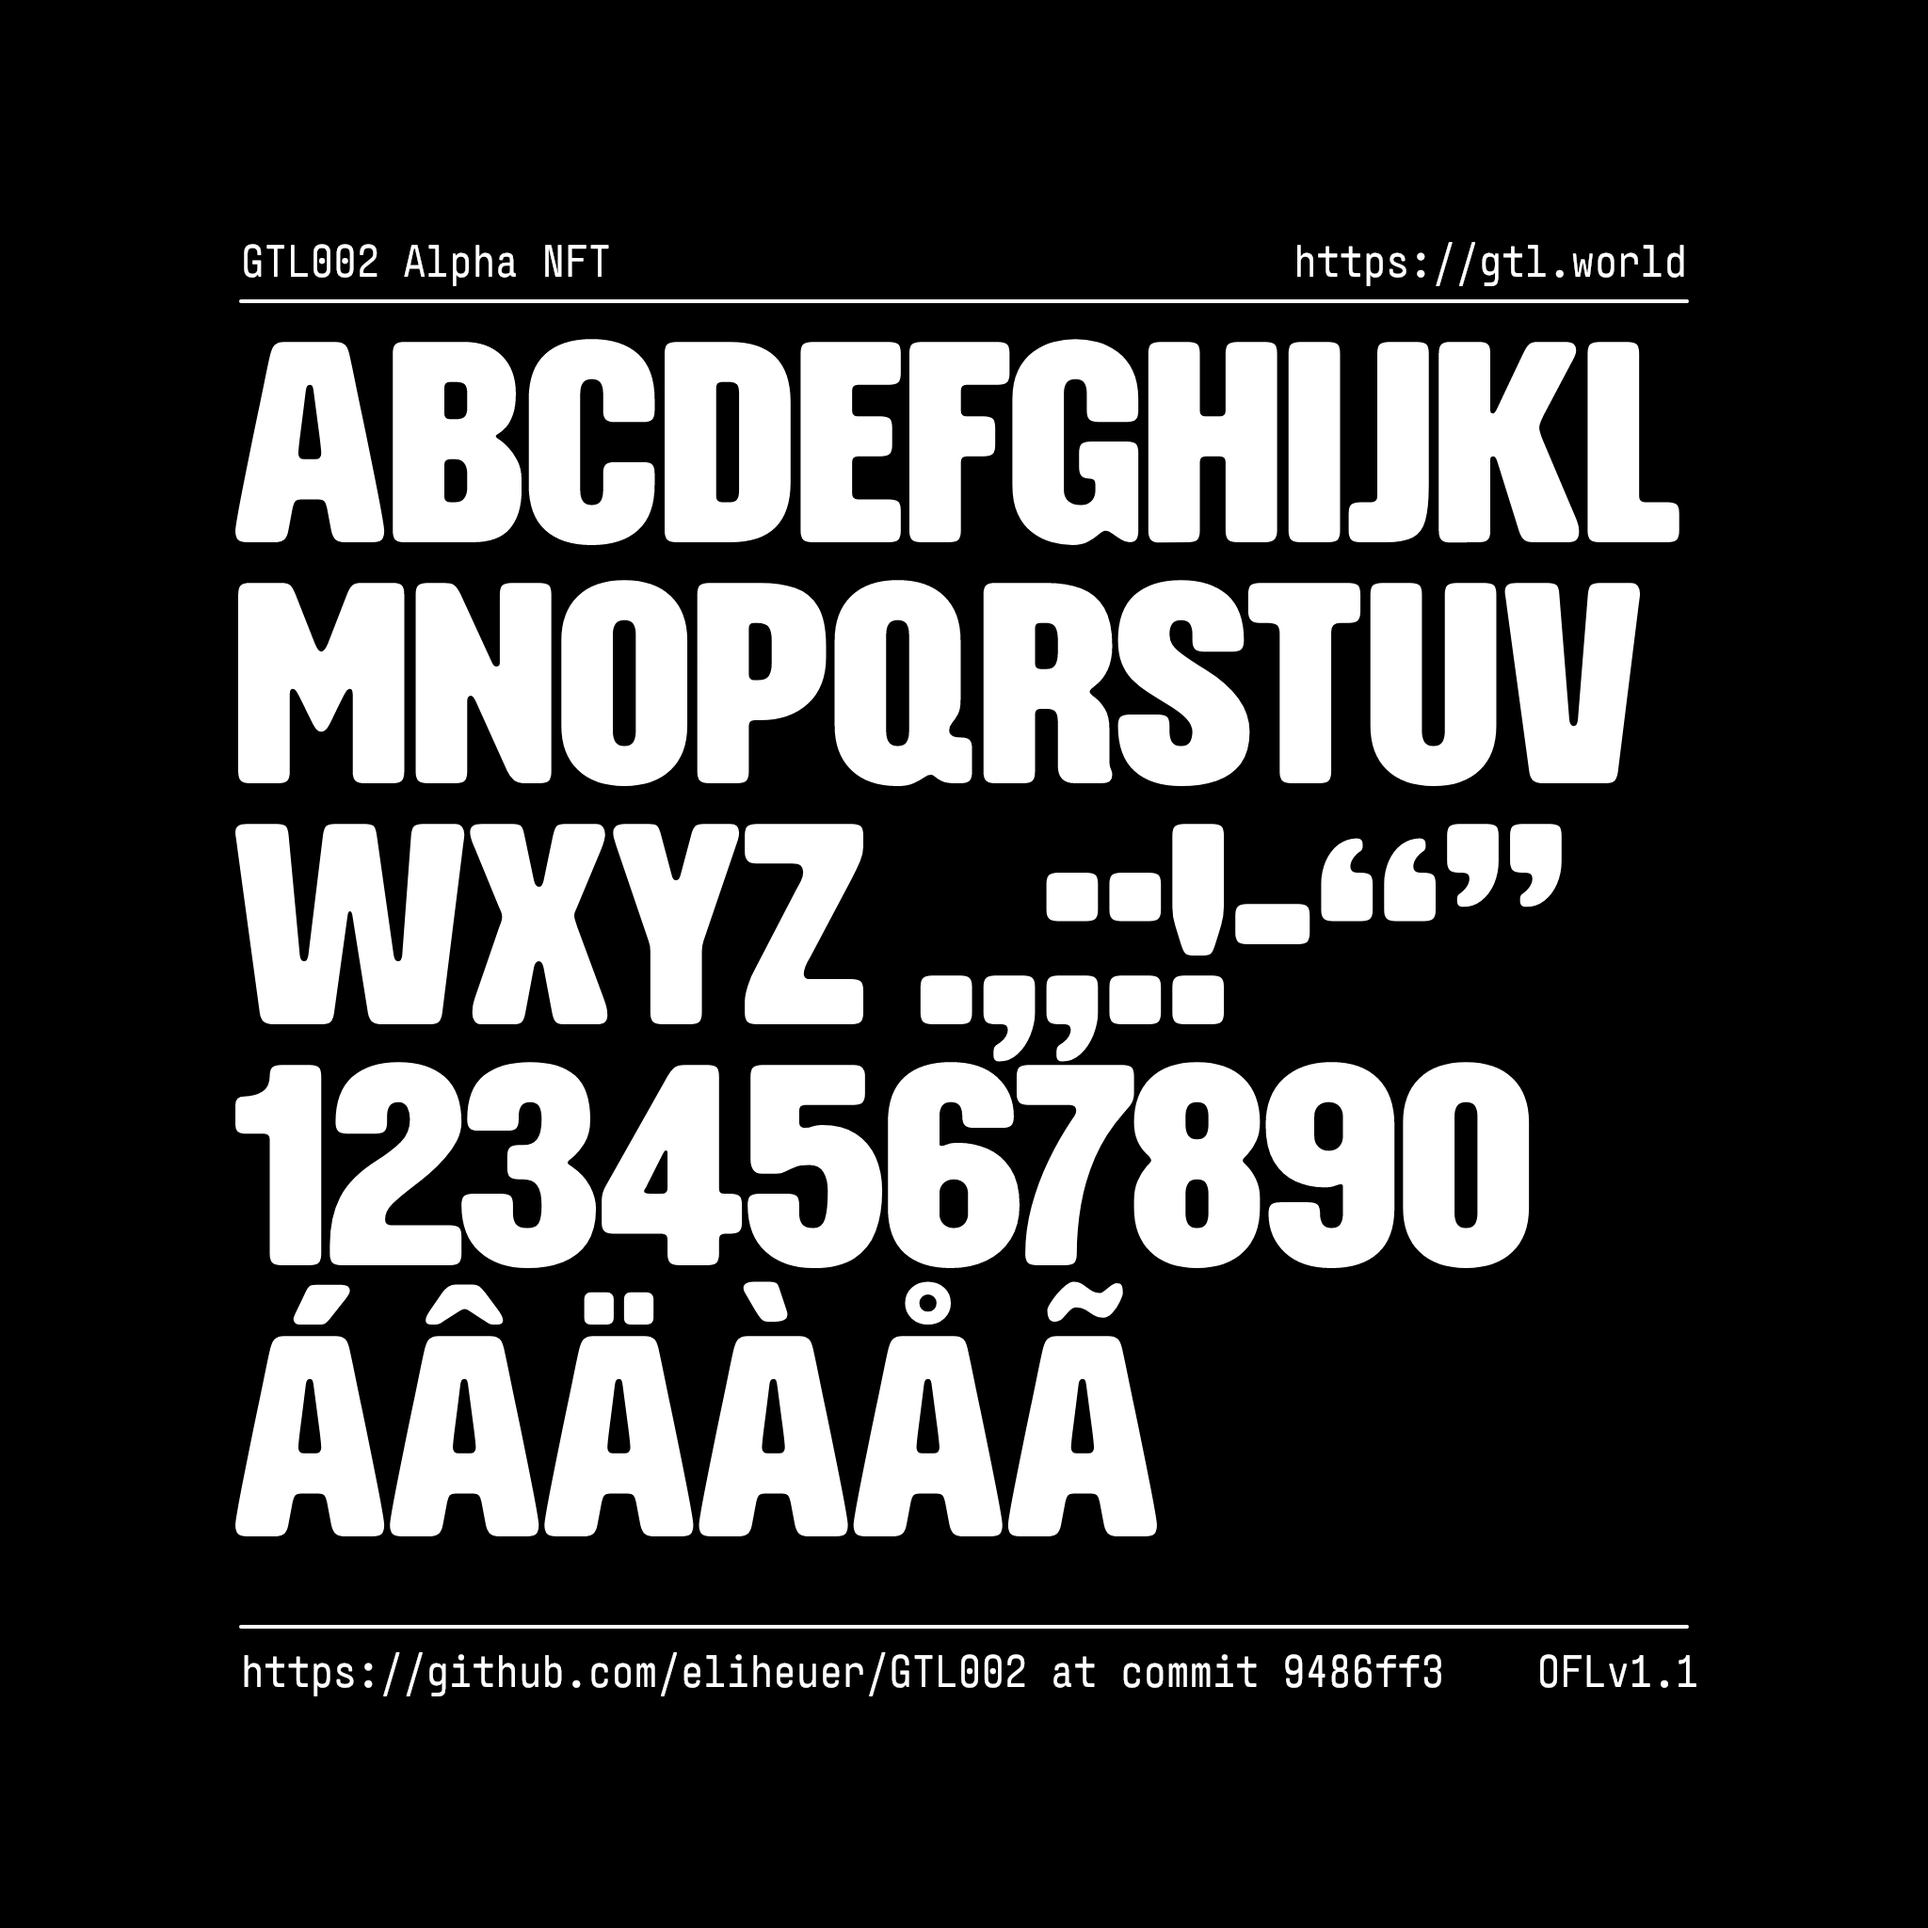
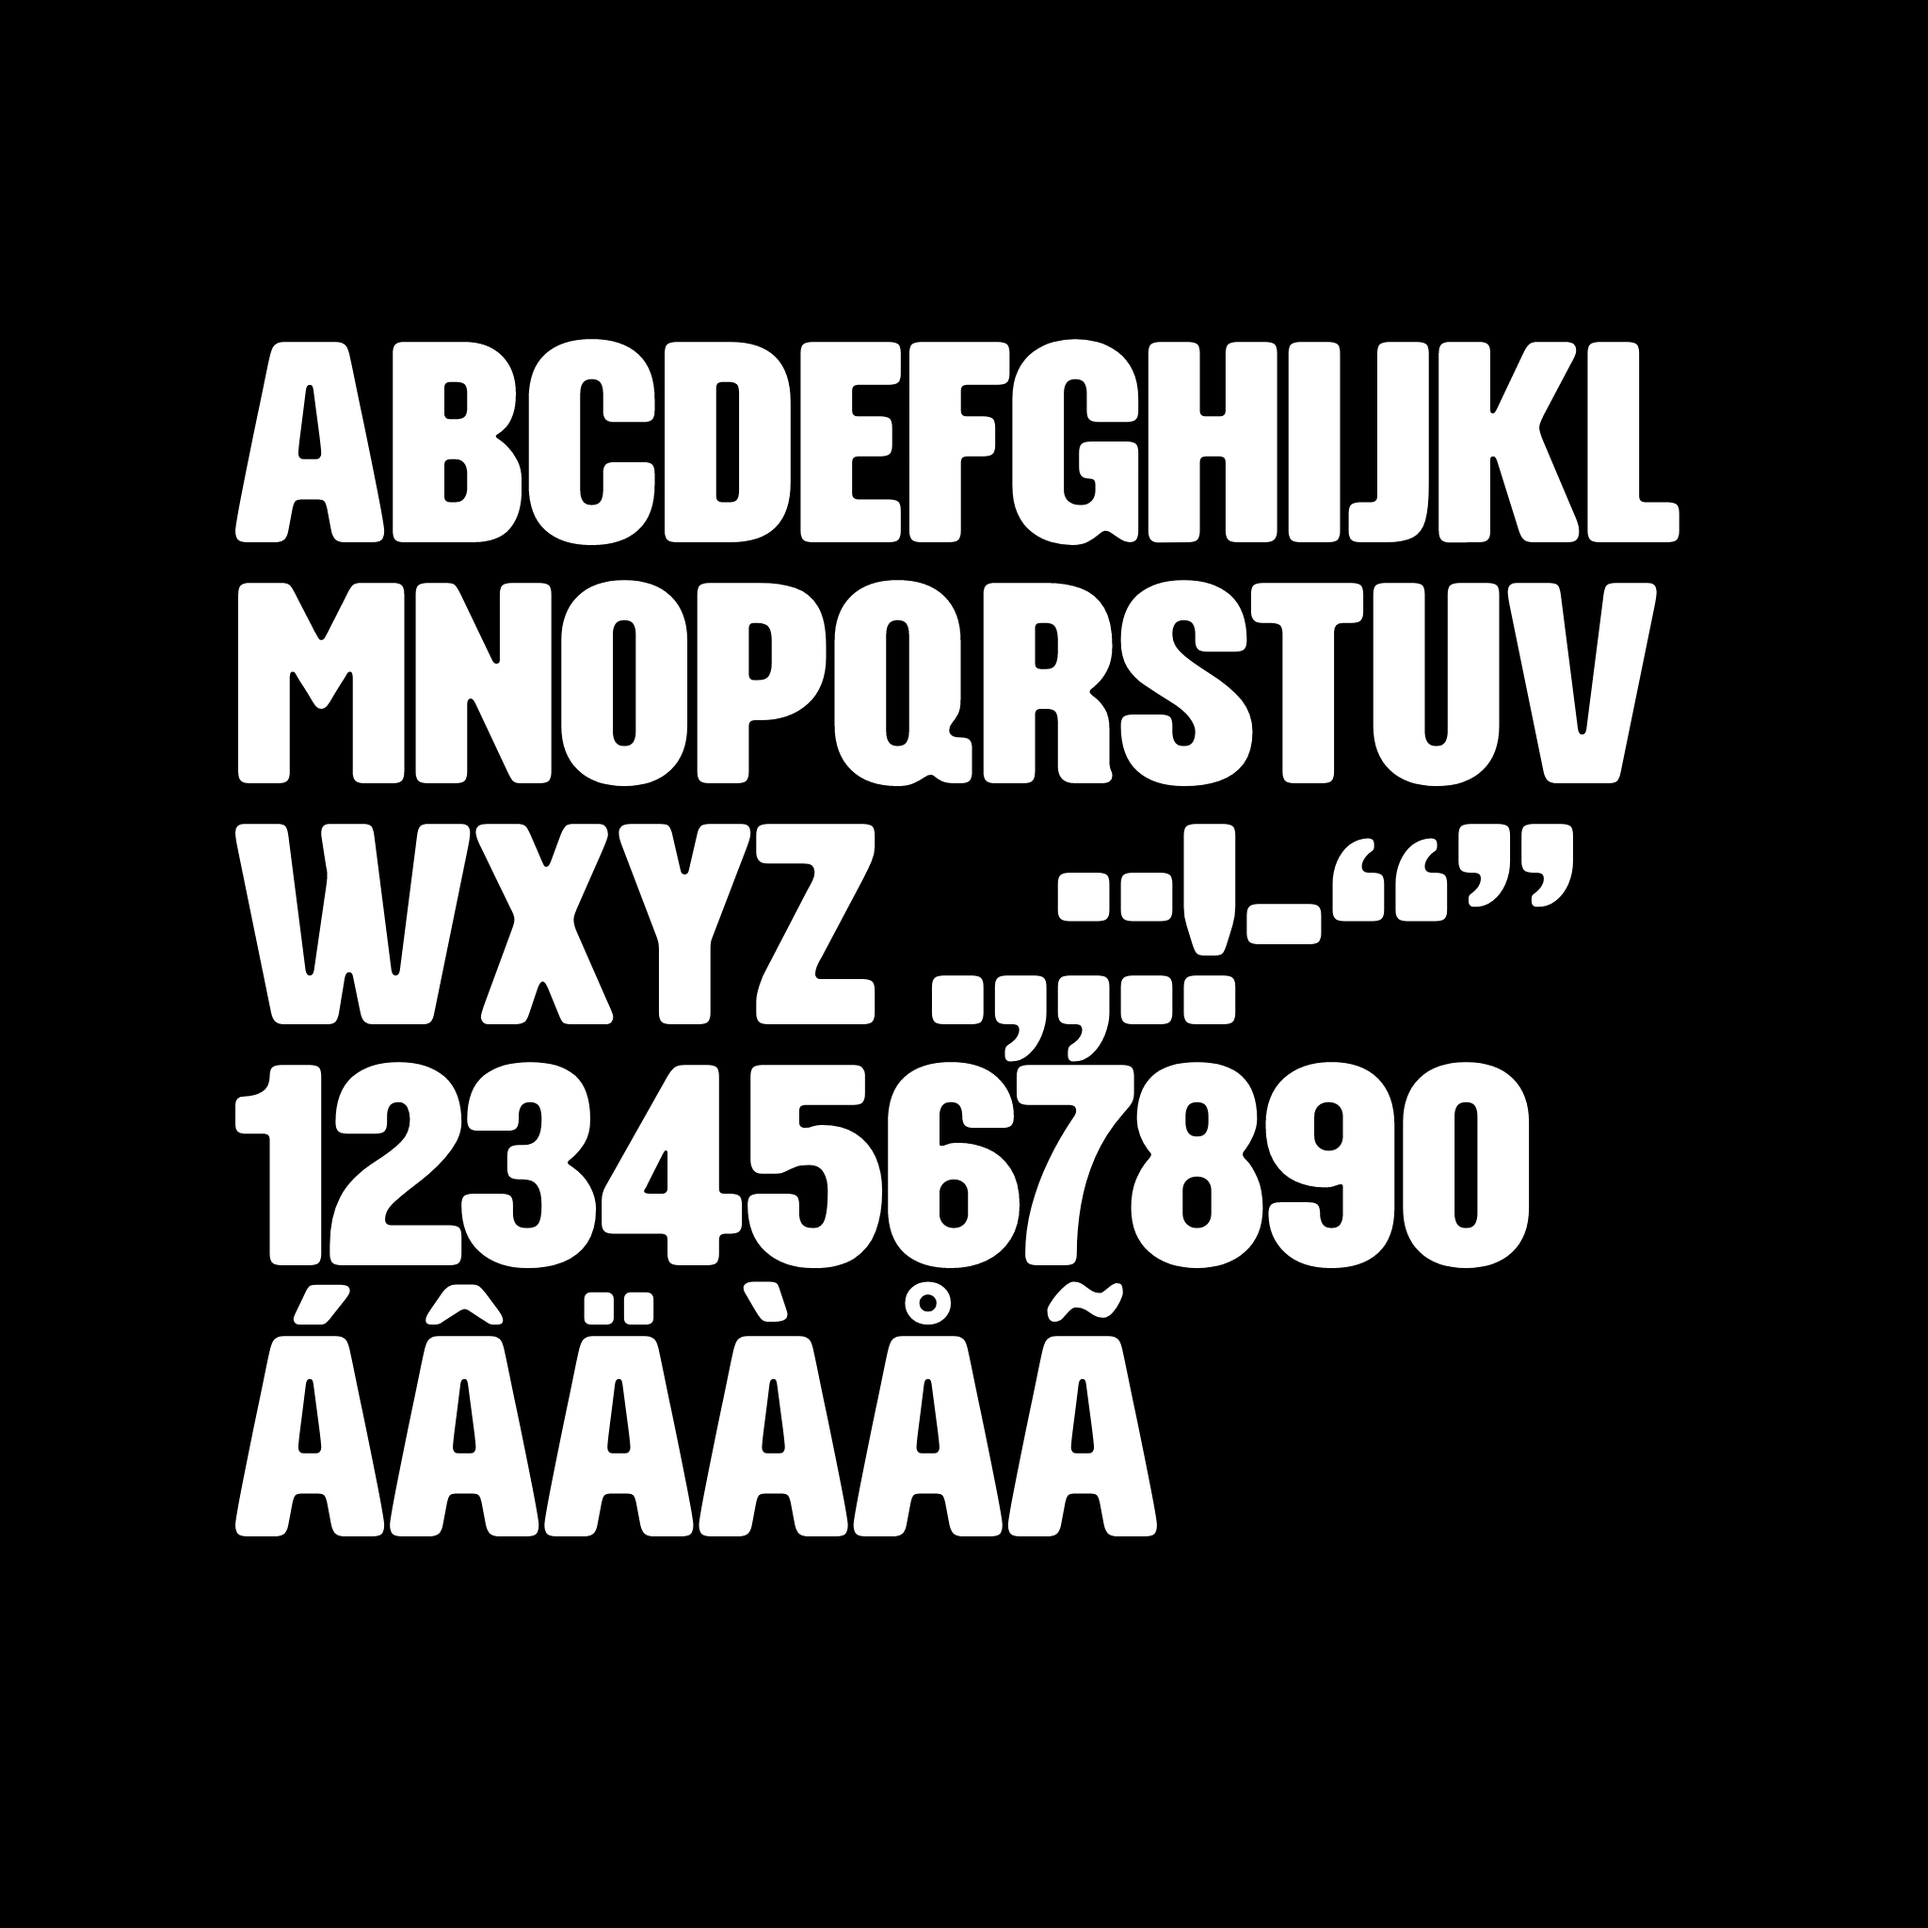
Update DrawBot images

diff --git a/documentation/GTL002-Alpha-NFT.py b/documentation/GTL002-Alpha-NFT.py
@@ -153,8 +153,8 @@ def draw_auxiliary_text():
 if __name__ == "__main__":
     draw_background()
     draw_main_text()
-    draw_divider_lines()
-    draw_auxiliary_text()
+#    draw_divider_lines()
+#    draw_auxiliary_text()
     # Save output, using the "--output" flag location
     saveImage(args.output)
     print("DrawBot: Done")
